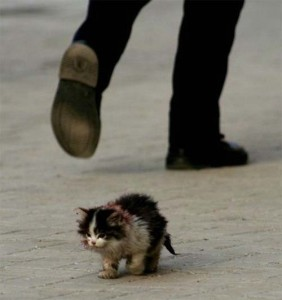
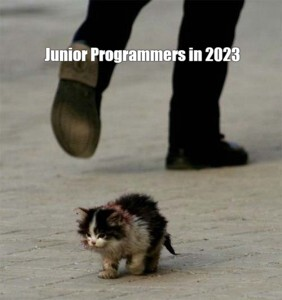
fix: change images and add accordion

Changed region(s): [[0.1418, 0.15, 0.8511, 0.21]]

diff --git a/cssBayan/index.html b/cssBayan/index.html
@@ -1,0 +1,39 @@
+<!DOCTYPE html>
+<html lang="ru">
+  <head>
+    <meta name="viewport" content="width=device-width, initial-scale=1">
+    <title>CssBayan</title>
+    <link rel="stylesheet" href="style.css">
+  </head>
+  <body>
+    <div class="wrapper">
+        <div class="row">
+            <div class="accordion">
+                <h1 class="accordion__title">CssBayan</h1>
+                <details>
+                    <summary >Junior programmers at 2023</summary>
+                    <div class="accordion__item ">
+                        <img src="images/1.jpg" class="accordion__img">
+                    </div>
+                </details>
+                <details>
+                    <summary>Me and deadline</summary>
+                    <img src="images/4.jpg">
+                </details>
+                <details>
+                    <summary>Css & Bootstrap</summary>
+                    <img src="images/5.jpg">
+                </details>
+                <details>
+                    <summary>When you read the task from RSschool</summary>
+                    <img src="images/02.jpg">
+                </details>   
+                <details>
+                    <summary>When you choose your first programming language  </summary>
+                    <img src="images/6.jpg">
+                </details>    
+            </div>
+        </div>    
+    </div>
+  </body>
+</html>

diff --git a/cssBayan/style.css b/cssBayan/style.css
@@ -1,0 +1,37 @@
+.center{
+    text-align: center;
+}                        
+body {
+    background-color: #F0FFF0;
+    cursor: none;
+}
+summary::-webkit-details-marker {
+    display: none;
+} 
+summary{
+    font-size: 27px;
+    padding: 10px 0 10px 0
+}
+img{
+    width: 600px;
+}
+.wrapper {
+    display: flex;
+    flex-wrap: wrap;
+    justify-content: center;
+    align-items: center;
+    cursor: pointer;
+    margin: 0px 500px 0px 500px;
+
+}
+.accordion {
+    max-width: 600px;
+    min-width: 400px;
+}
+.accordion__title {
+    text-align: center;
+    font-size: 40px;
+    color: #008B8B;
+}
+
+
